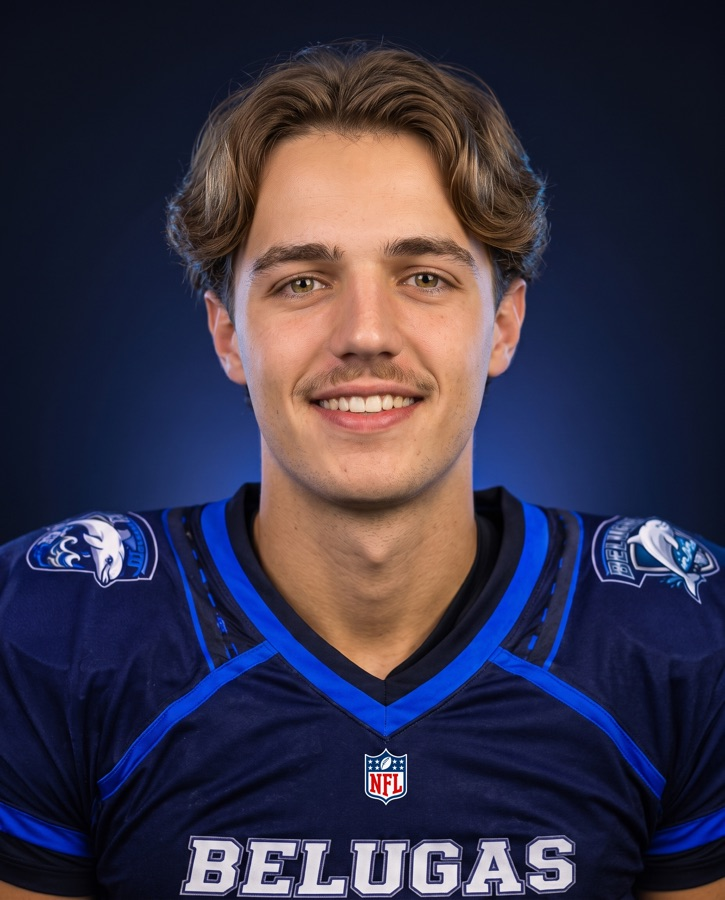
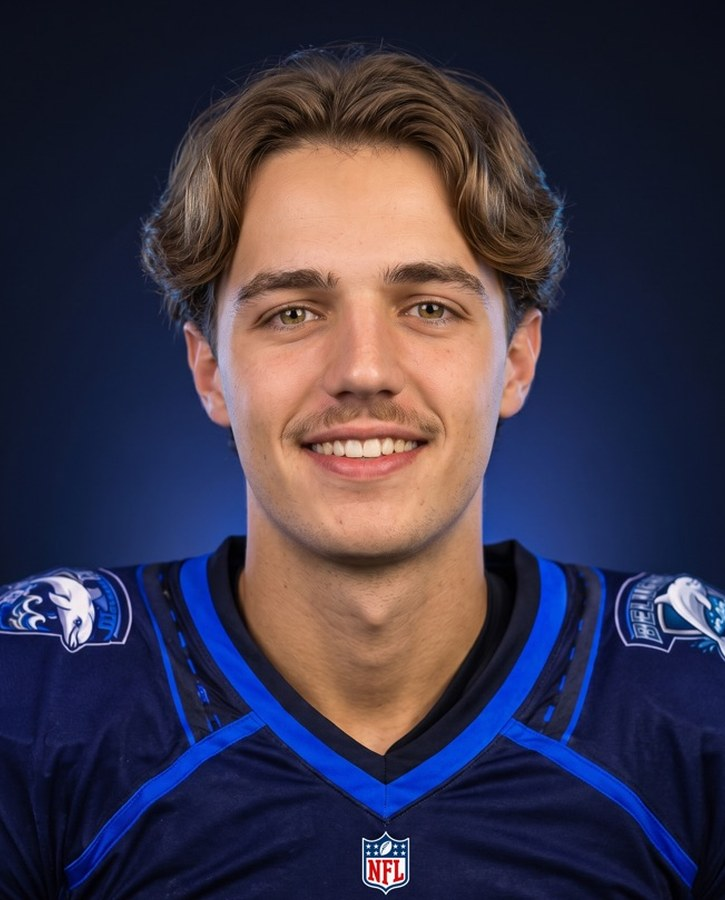
Retratos parejos: misma cara y ojos a la misma altura; a Juanpi ya le sale su cara (#27)
* Retratos parejos: misma cara y ojos a la misma altura en los trece; la ficha difumina el jersey abajo; el retrato se liga también por el nombre de hoy (Juanpi)

* Sella la versión y el service worker para que los retratos nuevos lleguen

* Prueba: el respaldo por nombre no confunde Juanpi con Juancho ni José con otro

diff --git a/index.html b/index.html
@@ -154,7 +154,8 @@ h2 small { font: 600 12.5px/1 Inter; color: var(--mut); }
 .foto { position: relative; flex: none; display: block; border-radius: 50%; }
 .foto > span { display: block; width: 100%; height: 100%; border-radius: 50%; overflow: hidden; background: #fff; }
 .foto svg, .foto img { display: block; width: 100%; height: 100%; object-fit: cover; }
-/* los retratos son de 725 × 900 con la cabeza arriba: el círculo toma la parte de arriba para no cortarles el pelo (Iker, 17-nov) */
+/* los retratos son de 725 × 900 con la cabeza arriba: el círculo toma la parte de arriba para no cortarles el pelo (Iker, 17-nov).
+   Todos vienen reencuadrados igual: cara del mismo tamaño y ojos a la misma altura (y 309), para que nadie se vea más grande ni más alto */
 .foto img { object-position: 50% 0; }
 .foto .ini { display: grid; place-items: center; height: 100%; background: #e8eef7; color: var(--navy); font: 800 13px/1 Inter; }
 .pila { display: flex; align-items: center; }
@@ -656,7 +657,7 @@ html.app .pant > .pregunta.aviso { top: calc(env(safe-area-inset-top) + 46px); }
 .tj-nom em { display: block; font-style: italic; color: rgba(214,228,247,.72); margin-top: .08em; }
 .tj-foto { position: absolute; right: 4px; bottom: 92px; width: 244px; z-index: 1; }
 .tj.real .tj-foto { right: 0; bottom: 92px; width: 240px; height: 300px; }
-.tj.real .tj-foto img { width: 100%; height: 100%; object-fit: cover; object-position: 50% 0; filter: none; -webkit-mask-image: linear-gradient(to right, transparent 0, rgba(0,0,0,.35) 18%, #000 46%), linear-gradient(to bottom, transparent 0, rgba(0,0,0,.75) 4%, #000 9%); -webkit-mask-composite: source-in; mask-image: linear-gradient(to right, transparent 0, rgba(0,0,0,.35) 18%, #000 46%), linear-gradient(to bottom, transparent 0, rgba(0,0,0,.75) 4%, #000 9%); mask-composite: intersect; }
+.tj.real .tj-foto img { width: 100%; height: 100%; object-fit: cover; object-position: 50% 0; filter: none; -webkit-mask-image: linear-gradient(to right, transparent 0, rgba(0,0,0,.35) 18%, #000 46%), linear-gradient(to bottom, transparent 0, rgba(0,0,0,.75) 4%, #000 9%, #000 74%, transparent 100%); -webkit-mask-composite: source-in; mask-image: linear-gradient(to right, transparent 0, rgba(0,0,0,.35) 18%, #000 46%), linear-gradient(to bottom, transparent 0, rgba(0,0,0,.75) 4%, #000 9%, #000 74%, transparent 100%); mask-composite: intersect; }
 .tj-foto svg, .tj-foto img { display: block; width: 100%; filter: drop-shadow(-6px 0 18px rgba(5,14,30,.35)); }
 .tj.sinfoto .tj-foto { right: 26px; bottom: 150px; width: 128px; height: 128px; border-radius: 50%; background: rgba(255,255,255,.14); display: grid; place-items: center; }
 .tj .ini { font: italic 900 46px/1 var(--disp); color: #fff; }
@@ -881,12 +882,14 @@ const ic = (k, chico = false) => { const g = ICONOS_S[k] || ICONOS_S.parada, ton
 // T es la temporada: el plantel (sembrado una vez con los nombres de la app de antes), quiénes salen de inicio y los partidos marcados.
 const tempVacia = () => ({ v: 1, plantel: [], linea: { O: [], D: [], qb: null, ver: 0 }, juegos: {}, sembrado: 0 });
 let T = tempVacia(), PLANTEL = [];
-// retratos aprobados para publicarse (archivos/jugadores); los demás van con sus iniciales
-const RETRATOS = { nicolas: 'nico', rodrigo: 'rodrigo', mau: 'mau', iker: 'iker', mario: 'mario', jaime: 'jaime', uri: 'uri', ian: 'ian', patrick: 'patrick', juanpi: 'juanpi', leo: 'leo', jose: 'jose', juancho: 'juancho' };
+// retratos aprobados para publicarse (archivos/jugadores); los demás van con sus iniciales.
+// Se ligan por id o por el nombre de hoy: el id se queda con el nombre con que entró (Juanpi entró como «Jonpol», Iker 17-nov)
+const RETRATOS = { nicolas: 'nico', rodrigo: 'rodrigo', mau: 'mau', iker: 'iker', mario: 'mario', jaime: 'jaime', uri: 'uri', ian: 'ian', patrick: 'patrick', juanpi: 'juanpi', jonpol: 'juanpi', leo: 'leo', jose: 'jose', juancho: 'juancho' };
+const retrato = (x) => RETRATOS[x.id] || RETRATOS[slug(x.nombre).replace(/-/g, '')];
 const P = (id) => PLANTEL.find((x) => x.id === id);
 function armarPlantel() {
   const l = T.linea || {};
-  PLANTEL = (T.plantel || []).filter((x) => !x.baja).sort((a, b) => (a.n ?? 999) - (b.n ?? 999) || (a.id < b.id ? -1 : 1)).map((x) => { const f = RETRATOS[x.id] ? `archivos/jugadores/${RETRATOS[x.id]}.jpg` : null, n = esc(x.nombre);
+  PLANTEL = (T.plantel || []).filter((x) => !x.baja).sort((a, b) => (a.n ?? 999) - (b.n ?? 999) || (a.id < b.id ? -1 : 1)).map((x) => { const r = retrato(x), f = r ? `archivos/jugadores/${r}.jpg` : null, n = esc(x.nombre);
     return { id: x.id, nombre: n, corto: n, num: null, pos: x.id === l.qb ? 'QB' : '', img: f, cara: f, lado: x.lado }; });
 }
 // los partidos jugados antes de marcar en la app del teléfono: de ellos solo se sabe el marcador (los pasó Mau el 15-nov: van 5–1).
@@ -1926,7 +1929,7 @@ addEventListener('online', () => { sinc(filas.vivo); sinc(filas.temp); });
 document.addEventListener('visibilitychange', () => { if (!document.hidden) { cierraViejo(); sinc(filas.vivo); sinc(filas.temp); revisarVersion(); } });
 // la app se actualiza sola: desde el ícono el teléfono no la recarga (solo la despierta), así que al volver se revisa si hay
 // versión nueva. publicar.sh sella VERSION y version.txt. Nunca a media hoja; lo marcado ya está guardado en el teléfono
-const VERSION = '20261117165025';
+const VERSION = '20261117170448';
 async function revisarVersion() {
   if (location.protocol !== 'https:') return;
   try {

diff --git a/sw.js b/sw.js
@@ -2,6 +2,7 @@
 // La página: primero internet, preguntándole al servidor si cambió (así los arreglos llegan a la primera); si en 3 s no contesta, la guardada.
 // Logo e imágenes: la guardada, y se actualiza por detrás. version.txt nunca se guarda: con él la app sabe si hay versión nueva.
 const C = 'belugas';
+// retratos reencuadrados el 17-nov: al cambiar este archivo el teléfono vuelve a bajar todo lo de abajo
 // lo que la app del teléfono necesita para abrir sin señal: la página, las fuentes, los logos y los retratos. ipad.html es la app de antes (respaldo)
 const EQUIPOS = ['belugas', 'only-fins', 'triple-t', 'bucaneros', 'destroyers', 'kickass', 'bulldogs', 'lobos-its', 'kaffies', 'ultimos-aztecas', 'los-fantasmas', 'panini'];
 const FIJOS = ['./', 'logo.webp', 'letras.webp', 'icon.png', 'archivos/balon-3d.png', 'archivos/corona-3d.png',

diff --git a/ipad.html b/ipad.html
@@ -2445,7 +2445,7 @@ function quitaZoom() {
 }
 // la app se actualiza sola: el iPad no la recarga al abrirla desde el ícono (solo la despierta), así que al volver se revisa
 // si hay versión nueva. publicar.sh sella VERSION y version.txt; nunca se recarga con algo a medias o sin subir
-const VERSION = '20261117164601';
+const VERSION = '20261117170448';
 async function revisarVersion() {
   if (location.protocol !== 'https:') return;
   try {
